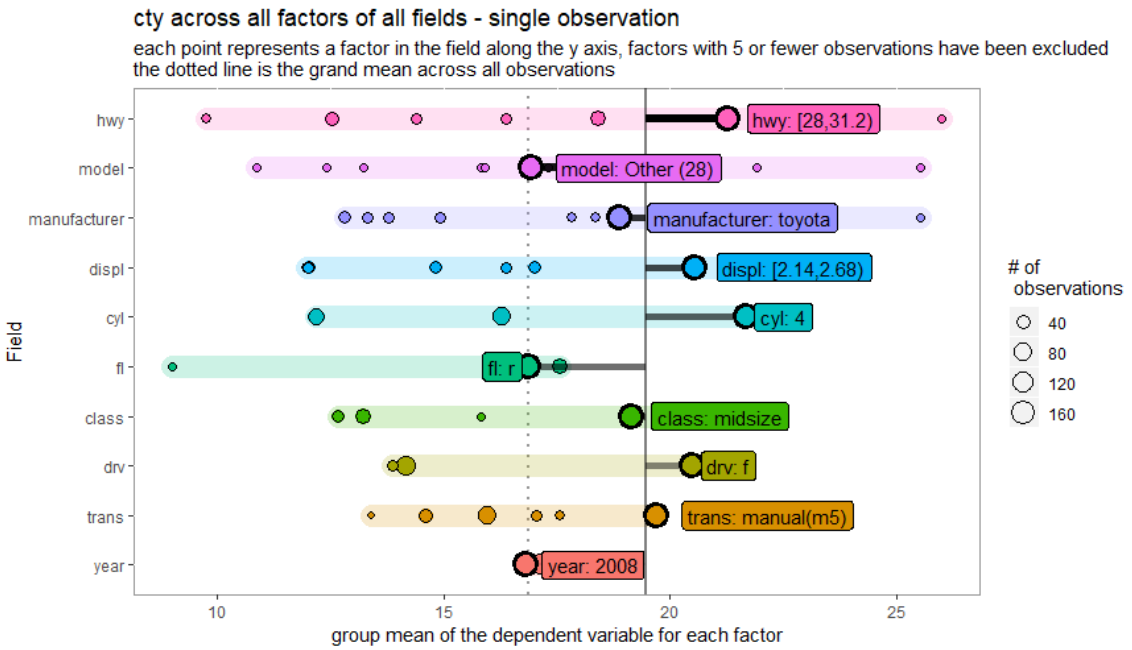
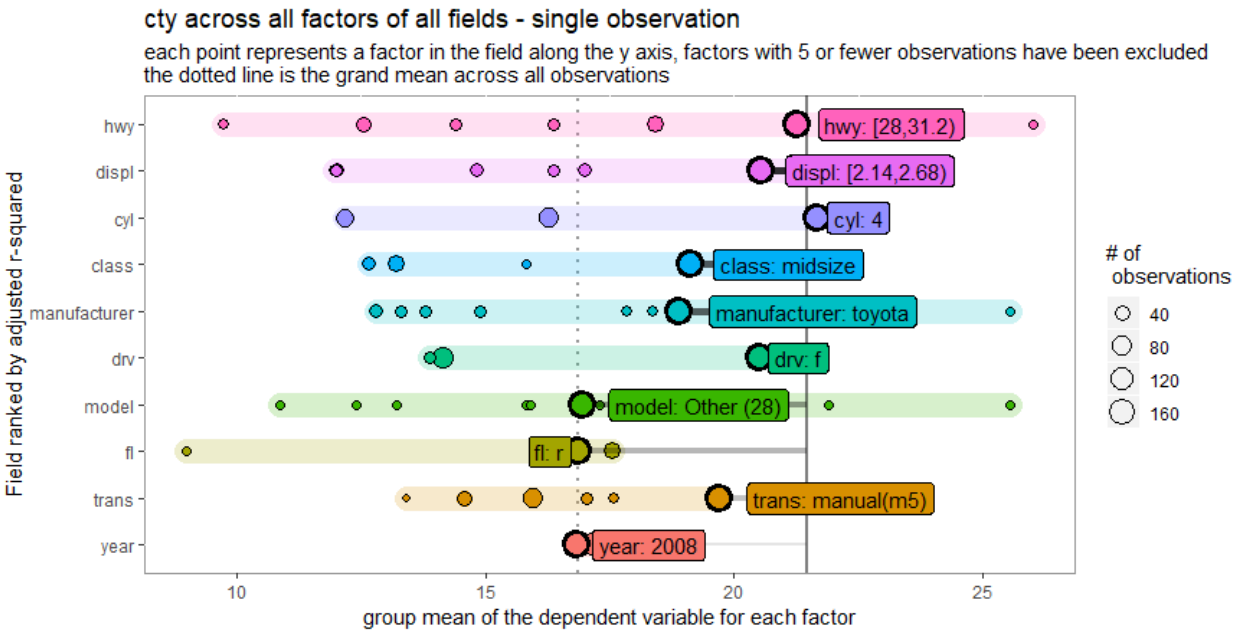
Add function to use adjusted r square

diff --git a/docs/reference/variation_plot_single_obs.html b/docs/reference/variation_plot_single_obs.html
@@ -155,7 +155,7 @@ will not be changed.</p></dd>
     
 
     <h2 class="hasAnchor" id="examples"><a class="anchor" href="#examples"></a>Examples</h2>
-    <pre class="examples"><div class='input'><span class='fu'>variation_plot_single_obs</span>(<span class='kw pkg'>ggplot2</span><span class='kw ns'>::</span><span class='no'><a href='https://ggplot2.tidyverse.org/reference/mpg.html'>mpg</a></span>, <span class='st'>"hwy"</span>)</div><div class='img'><img src='variation_plot_single_obs-1.png' alt='' width='700' height='433' /></div></pre>
+    <pre class="examples"><div class='input'><span class='fu'>variation_plot_single_obs</span>(<span class='kw pkg'>ggplot2</span><span class='kw ns'>::</span><span class='no'><a href='https://ggplot2.tidyverse.org/reference/mpg.html'>mpg</a></span>, <span class='st'>"hwy"</span>)</div><div class='output co'>#&gt; <span class='error'>Error in rename(., y = .data$datascanr_outcome): could not find function "rename"</span></div></pre>
   </div>
   <div class="col-md-3 hidden-xs hidden-sm" id="sidebar">
     <h2>Contents</h2>

diff --git a/docs/reference/variation_plot.html b/docs/reference/variation_plot.html
@@ -148,7 +148,7 @@ a large proportion of null values</p></td>
     
 
     <h2 class="hasAnchor" id="examples"><a class="anchor" href="#examples"></a>Examples</h2>
-    <pre class="examples"><div class='input'><span class='fu'>variation_plot</span>(<span class='kw pkg'>ggplot2</span><span class='kw ns'>::</span><span class='no'><a href='https://ggplot2.tidyverse.org/reference/mpg.html'>mpg</a></span>, <span class='st'>"hwy"</span>)</div><div class='img'><img src='variation_plot-1.png' alt='' width='700' height='433' /></div></pre>
+    <pre class="examples"><div class='input'><span class='fu'>variation_plot</span>(<span class='kw pkg'>ggplot2</span><span class='kw ns'>::</span><span class='no'><a href='https://ggplot2.tidyverse.org/reference/mpg.html'>mpg</a></span>, <span class='st'>"hwy"</span>)</div><div class='output co'>#&gt; <span class='error'>Error in rename(., y = .data$datascanr_outcome): could not find function "rename"</span></div></pre>
   </div>
   <div class="col-md-3 hidden-xs hidden-sm" id="sidebar">
     <h2>Contents</h2>
